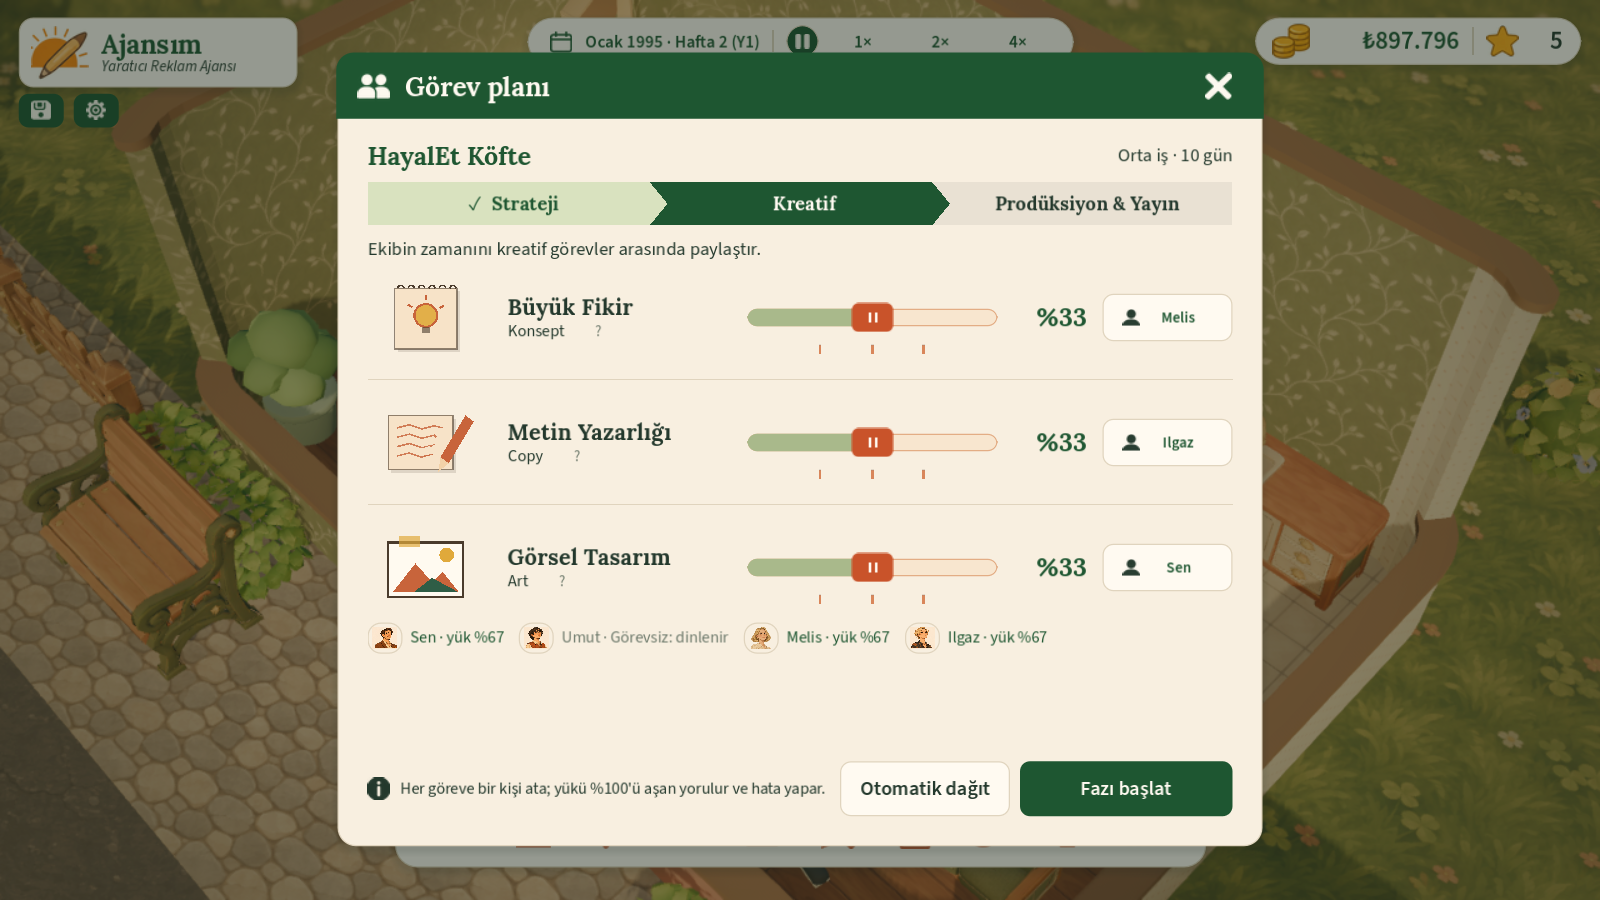
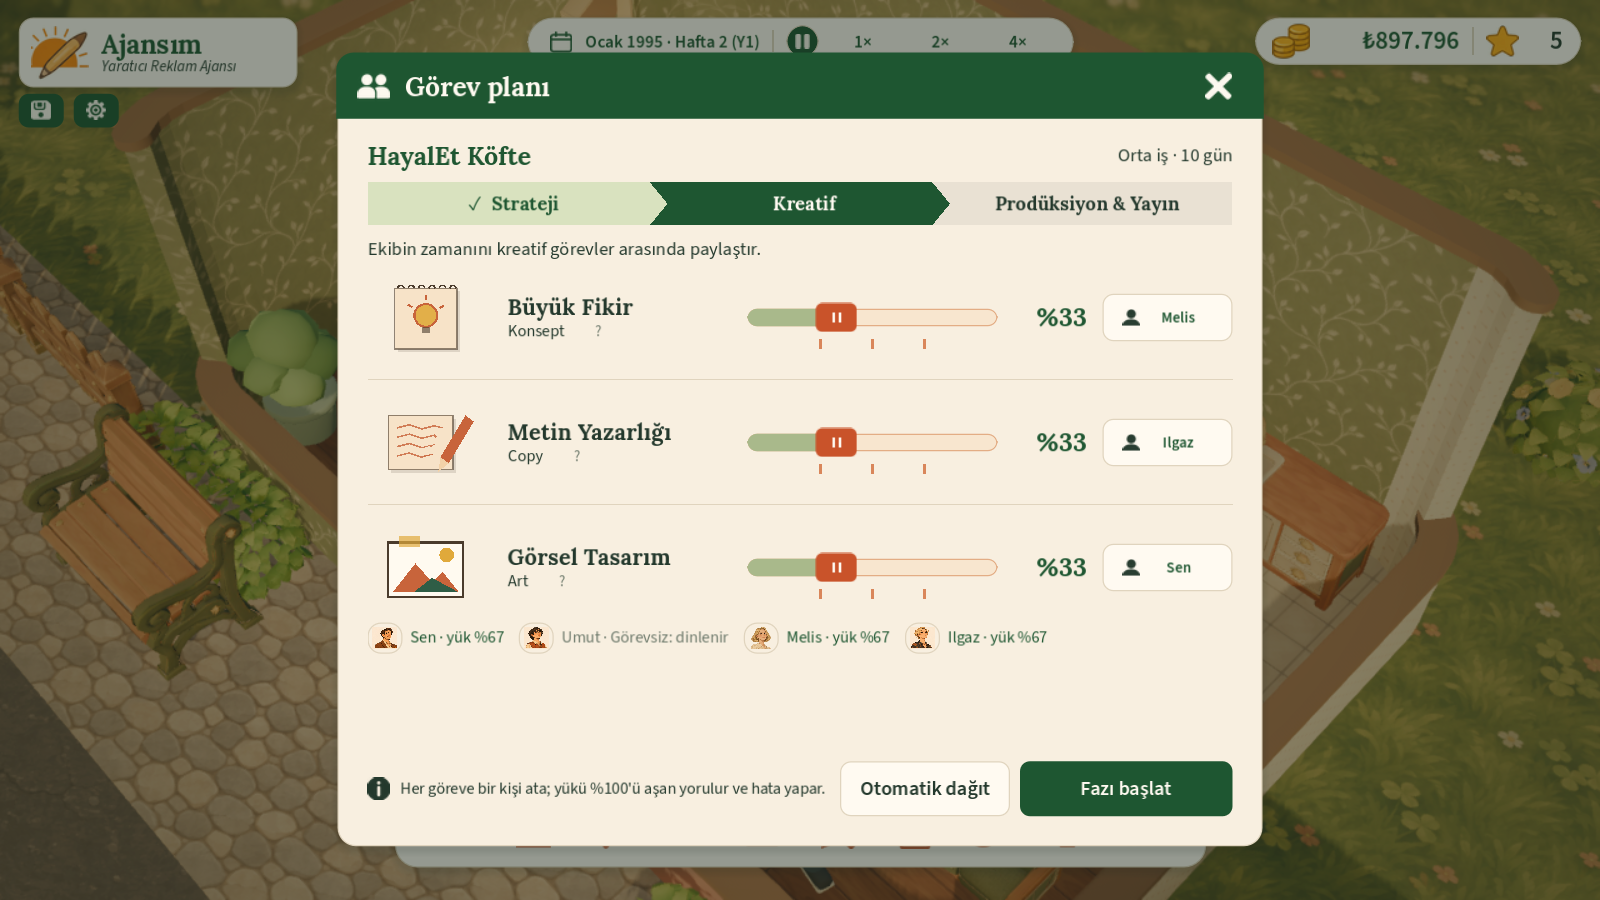
S12: görev planında çubuk konumu gerçek yüzde (üç görev hep %100, kalan pay eski oranla dağılır), çentikler %25/%50/%75'te tutamakla hizalı; testli

diff --git a/docs/decisions.md b/docs/decisions.md
@@ -1882,3 +1882,7 @@ Orgo ChatGPT'den örnek ekranlar getirdi ("fikir alabilirsin"): her mini oyun ay
 - **Pencere ana ekranda:** `Settings._apply_window` pencereyi masaüstünün (0,0) noktasına göre ortalıyordu. Orgo'nun iki ekranlı düzeninde orası yan ekrandı.
   - Artık Windows'un ana ekranına (`DisplayServer.get_primary_screen()`) taşınıp orada ortalanıyor.
   - Hem oyun hem test araçları için geçerli. `--screen` komut satırı bayrağı bu düzende işe yaramadı.
+- **Görev planı çubukları (S12, Orgo):** Çubuğun konumu artık görevin gerçek yüzdesi; çentikler %25, %50 ve %75'i gösteriyor.
+  - Eskiden çubuk ham ağırlıktı (üçü de ortadayken her biri %33 yazıyordu, çentikler yanıltıyordu).
+  - Bir görev değişince kalan pay diğer ikisine eski oranlarıyla dağılıyor; ikisi de sıfırsa eşit paylaşıyorlar. Toplam hep %100.
+  - Çentikler tutamağın merkeziyle aynı hesapla çiziliyor.
